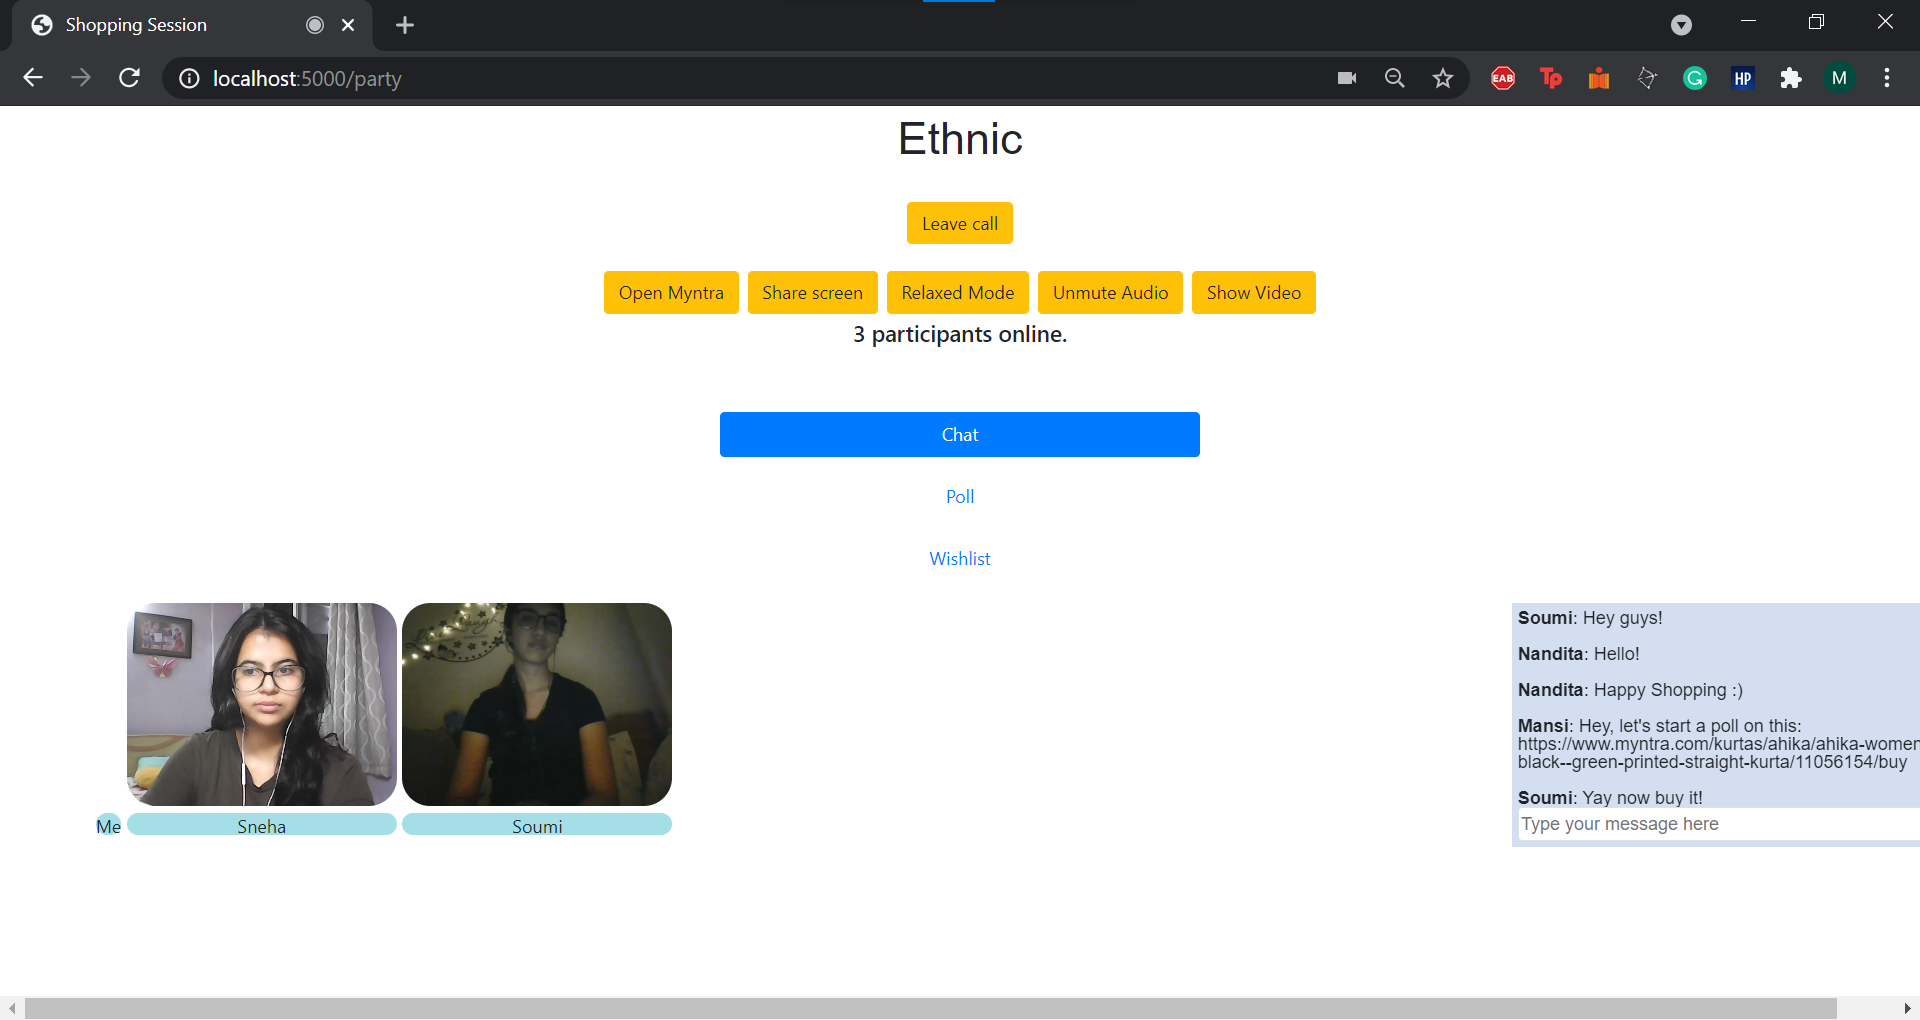
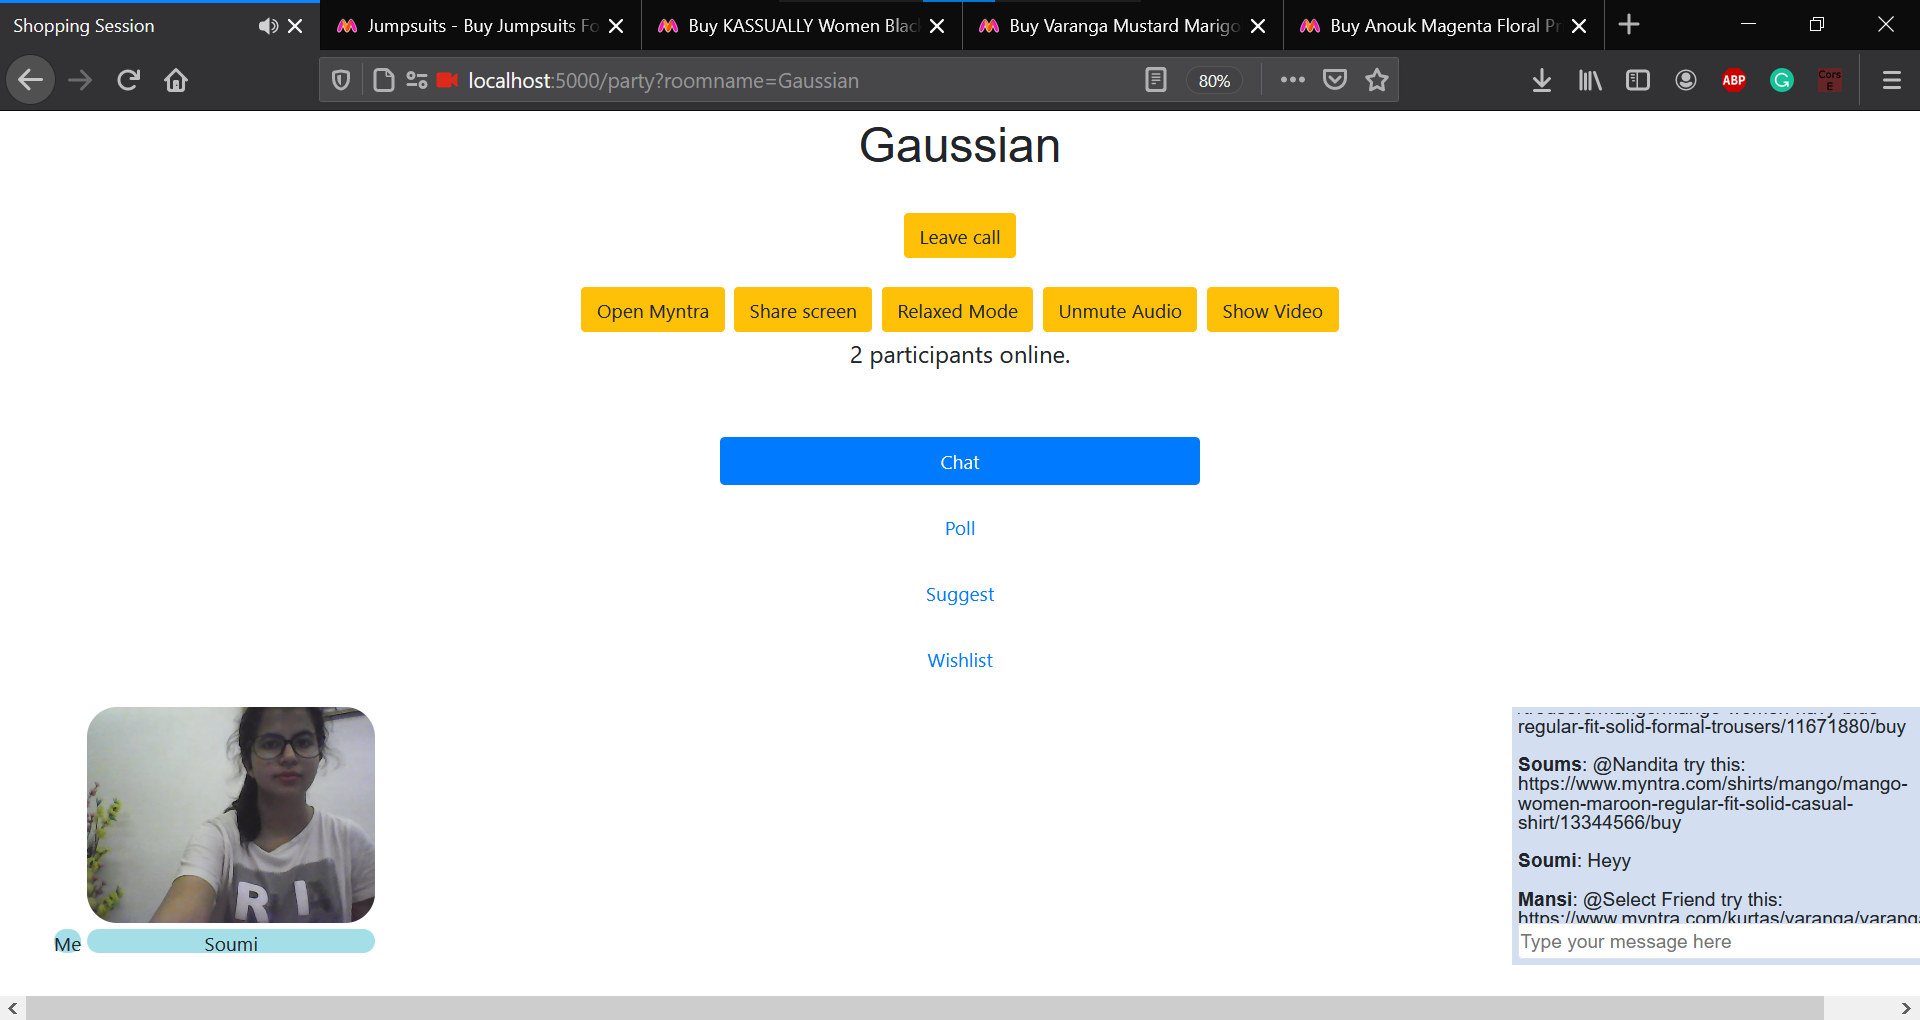
readme ho gaya

diff --git a/README.md b/README.md
@@ -122,9 +122,10 @@ Follow these steps to set up the chrome extension for this application:
 2. Rooms in public lounge<img src="images/lounge.png" alt="index"> 
 2. Enter username<img src="images/username.png" alt="index"> 
 2. Relaxed Mode<img src="images/relaxed.png" alt="index"> 
-2. Wishlist<img src="images/wishlist.png" alt="index"> 
-2. Save wishlist before leaving call<img src="images/save.png" alt="index"> 
+2. Downloadable wishlist<img src="images/wishlist.png" alt="index"> 
+2. Suggest items to fellow shoppers online<img src="images/suggest.png" alt="index"> 
 2. Live mode<img src="images/live.png" alt="index"> 
 2. Poll<img src="images/poll.png" alt="index"> 
 2. Poll results<img src="images/result.png" alt="index"> 
 2. Enter unique room name in private parties<img src="images/room.png" alt="index">
+2. Extension for easy access while shopping with friends<img src="images/extension1.png" alt="index">
